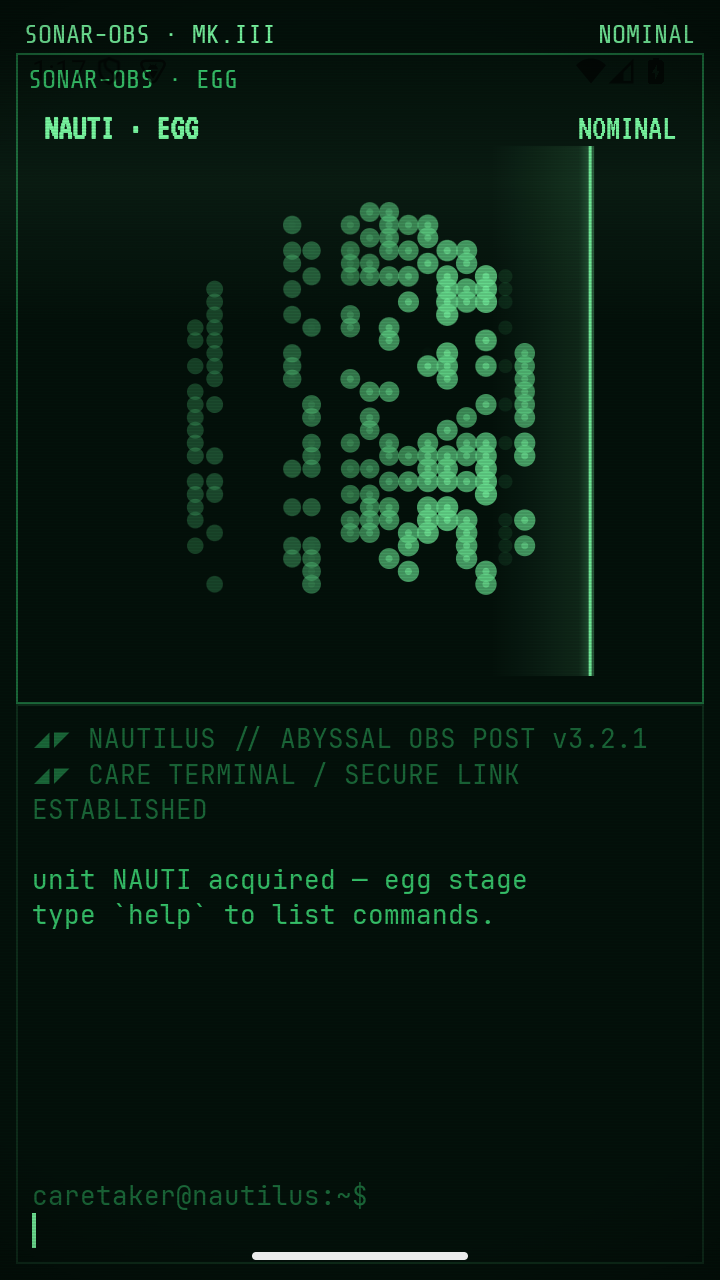
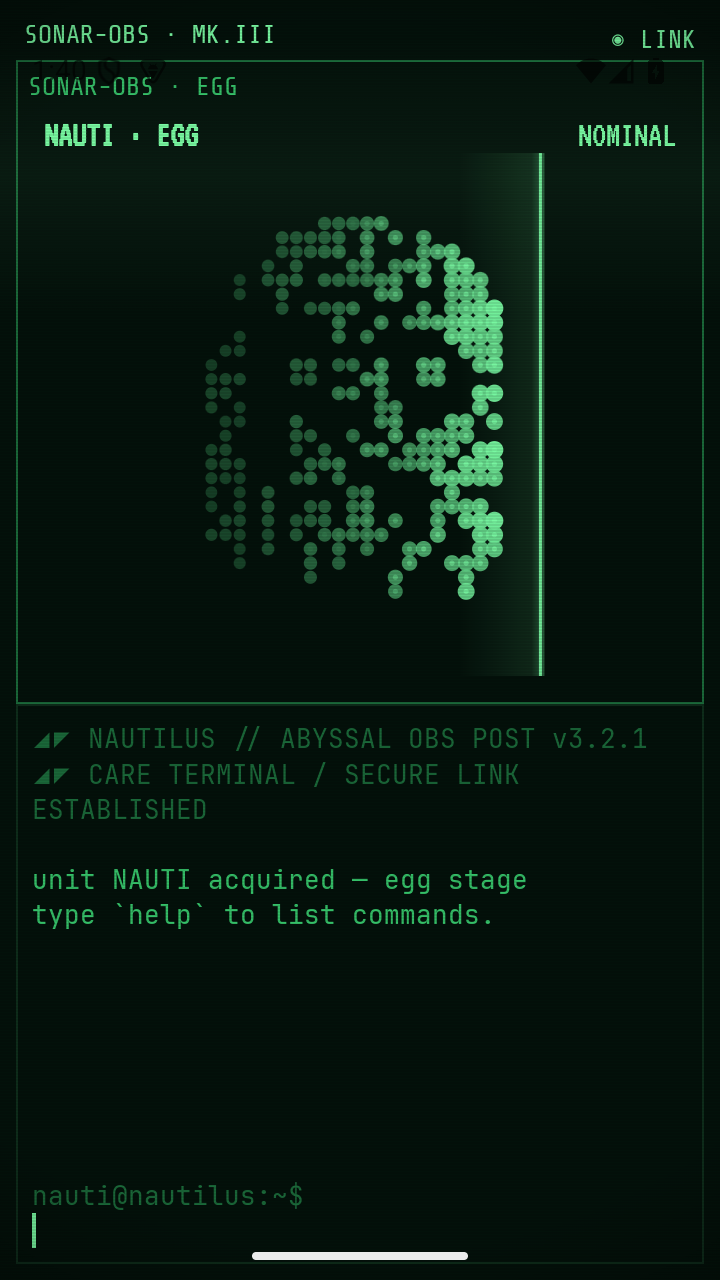
fix(shared): apply team-review action items to 1차 milestone
team-review(architect·code-reviewer·kotlin-reviewer) 우선순위 액션 반영:

필수:
- care-tick dt 클램프(coerceAtMost 3s) — 백그라운드/도즈 복귀 시 스탯 붕괴 방지.
- App: collectAsState → collectAsStateWithLifecycle (백그라운드 수집 중단).
- DotCreatureCanvas: 등방 좌표 매핑(rx/ry → r=min(w,h)) — ghost 실루엣 왜곡 수정.
  정사각 그리드(34x34)로 균일 간격. 빔도 r 통일.
- ping sweep 종료 시 pingStartMs 리셋 — 자동 펄스와 상호배타(빔 플리커 제거).
- 동적 터미널 프롬프트 `name@nautilus:~$`(입력+에코) — 데모 시그니처.
- 빌드 위생: kotlinx-coroutines-core 명시 선언 + 미사용 의존성 제거
  (ktor/coil/navigation/material-icons/serialization 플러그인 — Museum 잔재).

권장:
- 터미널 자동 스크롤 키 lines.size → lines(cap 도달 후도 따라감).
- submitCommand parse(trimmed) 일원화, Enter 단일 경로(onGo), twinkle i/j(데모식),
  헤더 mood 중복 제거(→ ◉ LINK), FloatArray 불변식 주석, GHOST_SEED 명명.

정합/문서:
- PLAN: 터미널 history = ViewModel-local(데모 충실) 확정, 데이터플로 노드, 체크리스트 7(zzz 후속).
- DeviceFrame KDoc: 1:1 정사각 베젤은 비율 근사임 명시.

검증: assembleDebug + 에뮬레이터 — 등방 생명체·동적 프롬프트·LINK 헤더 확인,
:core 73 테스트 통과. iOS 스모크는 macOS 필요(보류).

diff --git a/shared/src/commonMain/kotlin/today/superb/jvl/ui/sonar/DotCreatureCanvas.kt b/shared/src/commonMain/kotlin/today/superb/jvl/ui/sonar/DotCreatureCanvas.kt
@@ -23,9 +23,13 @@ import kotlin.math.exp
 import kotlin.math.sin
 import kotlin.random.Random
 
-private const val COLS = 30
-private const val ROWS = 38
+// 정사각 그리드 — 등방(isotropic) 매핑이라 가로/세로 도트 간격이 동일하고 ghost 실루엣이 안 깨짐.
+private const val COLS = 34
+private const val ROWS = 34
 private const val TWO_PI = (2.0 * PI).toFloat()
+
+/** 도트 sparsity 고정 시드(데모는 빌드마다 Math.random — 우리는 프레임 안정 위해 결정적). */
+private const val GHOST_SEED = 20260530L
 
 // 데모 creature.jsx 상수 1:1.
 private const val PULSE_DURATION = 1.6f   // 빔이 한 번 가로지르는 시간(초)
@@ -34,16 +38,16 @@ private const val BEAM_HALFWIDTH = 0.05f  // u-space 선단 반폭
 private const val TRAIL_REACH = 0.45f     // u-space 잔상 길이
 private const val DECAY_TAU = 1.0f        // phosphor 감쇠 시상수(초)
 
-private class DotPoint(val u: Float, val v: Float, val sparsity: Float)
+private class DotPoint(val i: Int, val j: Int, val u: Float, val v: Float, val sparsity: Float)
 
 private fun buildGhostPoints(): List<DotPoint> {
-    val rng = Random(20260530)
+    val rng = Random(GHOST_SEED)
     val pts = ArrayList<DotPoint>(COLS * ROWS)
     for (j in 0 until ROWS) {
         for (i in 0 until COLS) {
             val u = ((i + 0.5f) / COLS) * 2f - 1f
             val v = ((j + 0.5f) / ROWS) * 2f - 1f
-            pts.add(DotPoint(u, v, rng.nextFloat()))
+            pts.add(DotPoint(i, j, u, v, rng.nextFloat()))
         }
     }
     return pts
@@ -90,6 +94,8 @@ fun DotCreatureCanvas(
                 pingStartMs = t
             }
             val pingActive = pingStartMs >= 0f && (t - pingStartMs) < PULSE_DURATION
+            // ping sweep 종료 시 리셋 — 자동 펄스와 상호배타로 만들어 빔 우선순위 플리커 방지.
+            if (pingStartMs >= 0f && (t - pingStartMs) >= PULSE_DURATION) pingStartMs = -1f
             val beamU: Float = when {
                 pingActive -> ((t - pingStartMs) / PULSE_DURATION) * 2f - 1f
                 else -> {
@@ -140,22 +146,24 @@ fun DotCreatureCanvas(
     }
 
     Canvas(modifier) {
+        // 재그리기는 renderT(snapshot state) 읽기로 구동된다 — brightness/litTime FloatArray는
+        // 성능상 의도적으로 snapshot 밖에 있으므로, 이 t 읽기를 제거하면 배열 변이가 안 그려진다.
         val t = renderT
         val cx = size.width / 2f
         val cy = size.height / 2f
-        val rx = size.width * 0.46f
-        val ry = size.height * 0.46f
-        val spacing = (2f / COLS) * rx
+        // 등방 스케일 — u·v를 같은 r로 매핑해야 density 함수의 등방 가정(sqrt(u²+v²))이 유지된다.
+        val r = minOf(size.width, size.height) * 0.46f
+        val spacing = (2f / COLS) * r
 
         for (idx in points.indices) {
             val b0 = brightness[idx]
             if (b0 < 0.02f) continue
             val p = points[idx]
-            val twinkle = 1f + sin(t * 2f + p.u * 5f + p.v * 7f) * 0.06f
+            val twinkle = 1f + sin(t * 2f + p.i * 0.7f + p.j * 1.3f) * 0.06f
             val b = (b0 * twinkle).coerceIn(0f, 1f)
             if (b < 0.02f) continue
 
-            val center = Offset(cx + p.u * rx, cy + p.v * ry)
+            val center = Offset(cx + p.u * r, cy + p.v * r)
             drawCircle(
                 color = lerpColor(palette.phosDim, palette.phos, b).copy(alpha = b),
                 radius = spacing * (0.30f + b * 0.34f),
@@ -172,8 +180,8 @@ fun DotCreatureCanvas(
 
         // 빔 — 넓은 halo + 밝은 선단.
         if (!scanU.isNaN()) {
-            val x = cx + scanU * rx
-            val haloW = rx * 0.34f
+            val x = cx + scanU * r
+            val haloW = r * 0.34f
             drawRect(
                 brush = Brush.horizontalGradient(
                     0f to palette.phos.copy(alpha = 0f),

diff --git a/shared/src/commonMain/kotlin/today/superb/jvl/App.kt b/shared/src/commonMain/kotlin/today/superb/jvl/App.kt
@@ -5,12 +5,11 @@ import androidx.compose.foundation.layout.Row
 import androidx.compose.foundation.layout.fillMaxWidth
 import androidx.compose.foundation.layout.padding
 import androidx.compose.runtime.Composable
-import androidx.compose.runtime.collectAsState
 import androidx.compose.runtime.getValue
 import androidx.compose.ui.Modifier
 import androidx.compose.ui.unit.dp
+import androidx.lifecycle.compose.collectAsStateWithLifecycle
 import org.koin.compose.viewmodel.koinViewModel
-import today.superb.jvl.core.moodLabel
 import today.superb.jvl.ui.bezel.MainBezel
 import today.superb.jvl.ui.crt.CrtLayers
 import today.superb.jvl.ui.frame.DeviceFrame
@@ -25,8 +24,8 @@ import today.superb.jvl.viewmodel.GameViewModel
 @Composable
 fun App() {
     val vm: GameViewModel = koinViewModel()
-    val state by vm.state.collectAsState()
-    val terminal by vm.terminal.collectAsState()
+    val state by vm.state.collectAsStateWithLifecycle()
+    val terminal by vm.terminal.collectAsStateWithLifecycle()
 
     // 1차는 항상 Green(전투/peer 없음 → alert 전환 없음). pendingRequest 기반 alert는 2차.
     JvlTheme(hue = Hue.Green) {
@@ -37,8 +36,9 @@ fun App() {
                         Modifier.fillMaxWidth().padding(horizontal = 4.dp, vertical = 2.dp),
                         horizontalArrangement = Arrangement.SpaceBetween,
                     ) {
+                        // 헤더는 기기 아이덴티티(데모 헤더엔 mood 없음 — mood는 소나 readout 단독).
                         MonoText("SONAR-OBS · MK.III", fontFamily = LocalTechFont.current)
-                        MonoText(moodLabel(state).name, fontFamily = LocalTechFont.current)
+                        MonoText("◉ LINK", fontFamily = LocalTechFont.current)
                     }
                 },
                 bezel = {
@@ -47,7 +47,7 @@ fun App() {
                     }
                 },
                 terminal = {
-                    TerminalScreen(lines = terminal, onSubmit = vm::submitCommand)
+                    TerminalScreen(lines = terminal, name = state.name, onSubmit = vm::submitCommand)
                 },
             )
         }

diff --git a/shared/src/commonMain/kotlin/today/superb/jvl/viewmodel/GameViewModel.kt b/shared/src/commonMain/kotlin/today/superb/jvl/viewmodel/GameViewModel.kt
@@ -24,6 +24,9 @@ private const val TOAST_MS = 1400L
 private const val EVOLVE_MS = 2200L
 private const val TERMINAL_CAP = 200
 
+/** 한 틱이 표현하는 최대 경과(초). 백그라운드/도즈 복귀 시 거대한 dt로 스탯이 붕괴하는 것을 방지. */
+private const val CARE_DT_MAX = 3f
+
 private val NAMES = listOf("NAUTI", "KAIJU", "BLEEP", "MORSE", "PROBE", "KRILL")
 
 /**
@@ -54,7 +57,7 @@ class GameViewModel(private val rng: Rng) : ViewModel() {
             while (true) {
                 delay(CARE_TICK_MS)
                 val now = TimeSource.Monotonic.markNow()
-                val dt = (now - last).inWholeMilliseconds / 1000f
+                val dt = ((now - last).inWholeMilliseconds / 1000f).coerceAtMost(CARE_DT_MAX)
                 last = now
                 dispatch(Action.Tick(dt))
             }
@@ -75,12 +78,15 @@ class GameViewModel(private val rng: Rng) : ViewModel() {
         val trimmed = text.trim()
         if (trimmed.isEmpty()) return
 
-        val response = respond(parse(text), _state.value, rng)
+        // trimmed로 한 번만 parse — 에코와 실행이 같은 입력을 보게.
+        val response = respond(parse(trimmed), _state.value, rng)
         if (response.clearScreen) {
             _terminal.value = response.lines
             return
         }
-        val inLine = TerminalLine(TerminalLineKind.In, trimmed)
+        // 입력 에코에 유닛명 셸 프롬프트를 붙인다(데모 `name@nautilus:~$ cmd`).
+        val prompt = "${_state.value.name.lowercase()}@nautilus:~$"
+        val inLine = TerminalLine(TerminalLineKind.In, "$prompt $trimmed")
         _terminal.value = (_terminal.value + inLine + response.lines).takeLast(TERMINAL_CAP)
         response.action?.let { dispatch(it) }
     }

diff --git a/shared/src/commonMain/kotlin/today/superb/jvl/ui/terminal/TerminalScreen.kt b/shared/src/commonMain/kotlin/today/superb/jvl/ui/terminal/TerminalScreen.kt
@@ -41,6 +41,7 @@ import today.superb.jvl.ui.theme.LocalPalette
 @Composable
 fun TerminalScreen(
     lines: List<TerminalLine>,
+    name: String,
     onSubmit: (String) -> Unit,
     modifier: Modifier = Modifier,
 ) {
@@ -51,7 +52,8 @@ fun TerminalScreen(
     var cmdHistory by remember { mutableStateOf(listOf<String>()) }
     var cmdIdx by remember { mutableStateOf(-1) }
 
-    LaunchedEffect(lines.size) {
+    // lines 자체를 키로 — cap(200) 도달 후 size가 고정돼도 새 내용에 스크롤 따라가게.
+    LaunchedEffect(lines) {
         if (lines.isNotEmpty()) listState.animateScrollToItem(lines.lastIndex)
     }
 
@@ -90,9 +92,9 @@ fun TerminalScreen(
                 .fillMaxWidth()
                 .padding(top = 4.dp)
                 .onPreviewKeyEvent { event ->
+                    // Enter 제출은 KeyboardActions(onGo)가 단독 담당 — 여기선 ↑↓ 히스토리만.
                     if (event.type != KeyEventType.KeyDown) return@onPreviewKeyEvent false
                     when (event.key) {
-                        Key.Enter -> { submit(); true }
                         Key.DirectionUp -> {
                             if (cmdHistory.isNotEmpty()) {
                                 cmdIdx = (cmdIdx + 1).coerceAtMost(cmdHistory.lastIndex)
@@ -110,7 +112,7 @@ fun TerminalScreen(
                 },
             decorationBox = { inner ->
                 Column {
-                    MonoText("caretaker@nautilus:~$", color = palette.phosDim)
+                    MonoText("${name.lowercase()}@nautilus:~$", color = palette.phosDim)
                     inner()
                 }
             },

diff --git a/shared/src/commonMain/kotlin/today/superb/jvl/ui/frame/DeviceFrame.kt b/shared/src/commonMain/kotlin/today/superb/jvl/ui/frame/DeviceFrame.kt
@@ -13,8 +13,11 @@ import androidx.compose.ui.unit.dp
 import today.superb.jvl.ui.theme.LocalPalette
 
 /**
- * 기기 프레임 — 위→아래로 header / 메인 베젤(가변) / 터미널(고정). 데모 06 명세 근사.
- * 셰이더·home indicator 등 세부는 후속.
+ * 기기 프레임 — 위→아래로 header / 메인 베젤(가변) / 터미널(고정). 데모 06 명세 **비율 근사**.
+ *
+ * 명세(06)는 1:1 정사각 베젤(362) + 터미널(315)의 고정 비율을 요구하지만, 1차는 베젤 `weight(1f)`
+ * + 터미널 고정 `280.dp`로 근사한다. 정사각 베젤·기준 캔버스(402x874) 비율 유지는 후속(셰이더·
+ * home indicator와 함께).
  */
 @Composable
 fun DeviceFrame(

diff --git a/shared/src/commonMain/kotlin/today/superb/jvl/ui/terminal/TerminalLineRow.kt b/shared/src/commonMain/kotlin/today/superb/jvl/ui/terminal/TerminalLineRow.kt
@@ -16,9 +16,6 @@ fun TerminalLineRow(line: TerminalLine, modifier: Modifier = Modifier) {
         TerminalLineKind.In -> palette.phos
         TerminalLineKind.Out -> palette.phosMid
     }
-    val prefix = when (line.kind) {
-        TerminalLineKind.In -> "> "
-        else -> ""
-    }
-    MonoText(text = prefix + line.text, modifier = modifier, color = color)
+    // In 라인은 ViewModel이 이미 `name@nautilus:~$ cmd` 형태로 프롬프트를 포함한다.
+    MonoText(text = line.text, modifier = modifier, color = color)
 }
